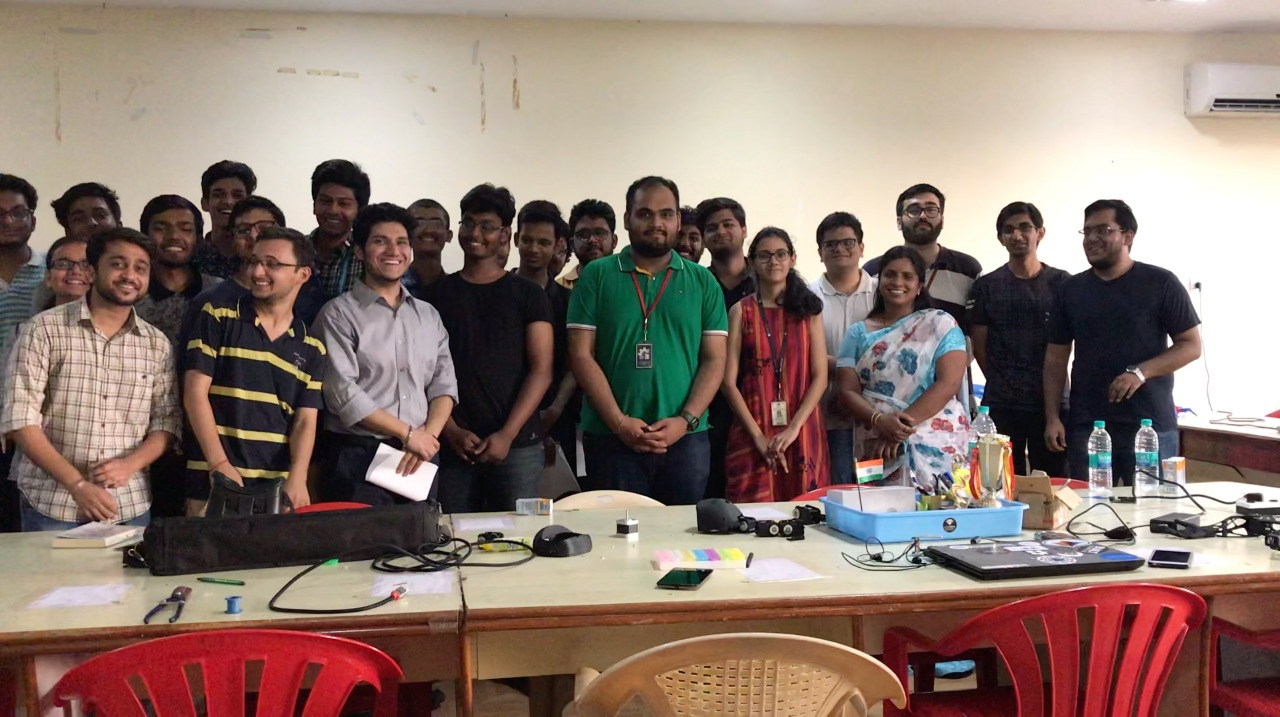
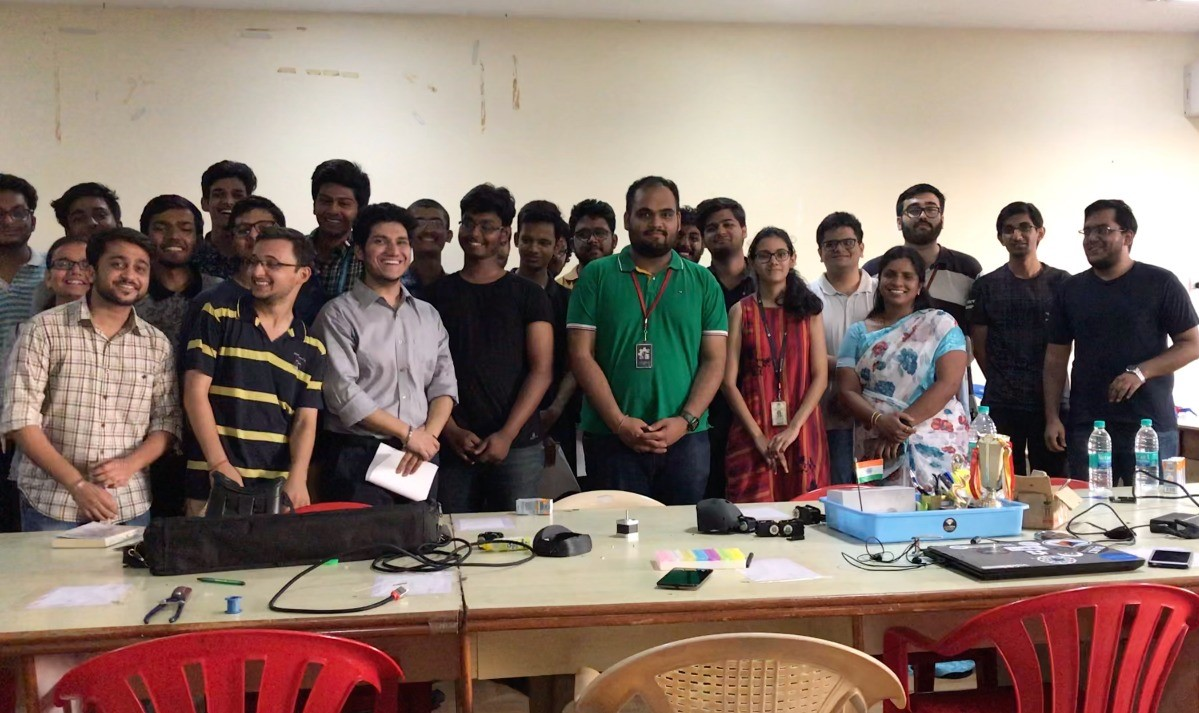
.

diff --git a/index.html b/index.html
@@ -65,7 +65,7 @@
     ================================================================================== -->
 
     <div class="bg"> 
-        <img id="img1" src="Assets/img/team1.jpg" alt="backgound" class="bg">
+        <img id="img1" src="Assets/img/team.jpg" alt="backgound" class="bg">
         <img id="img2" src="Assets/img/mobileview.jpg" alt="backgound">
         <div class="centered">
             <h1>SRMTH</h1>
@@ -231,7 +231,7 @@
         <hr>
         <div class="container">
             <div class="gmap_canvas">
-                <iframe width="350" height="350" id="gmap_canvas" src="https://maps.google.com/maps?q=srm%20basic%20engineering%20lab&t=&z=13&ie=UTF8&iwloc=&output=embed" frameborder="0" scrolling="no" marginheight="0" marginwidth="0"></iframe>
+                <iframe width="350" height="350" id="gmap_canvas" src="https://maps.google.com/maps?q=basic%20engineering%20lab%20srm&t=&z=17&ie=UTF8&iwloc=&output=embed" frameborder="0" scrolling="no" marginheight="0" marginwidth="0"></iframe>
                 <iframe width="350" height="350" id="gmap_canvas" src="https://www.youtube.com/embed/yNxIlA9s1yQ" frameborder="0" scrolling="no" marginheight="0" marginwidth="0"></iframe>
             </div>
         </div>
@@ -256,7 +256,8 @@
                 <div id="loc">
                     <i class="fas fa-phone"></i>
                     <h5>CALL US AT</h5>
-                    <p>Vivek: (+91) 9599398784</p>
+                    <p>Mehul Singh: (+91) 8769187251</p>
+                    <p>Vivek Mittal: (+91) 9599398784</p>
                 </div>
             </div>
         </div>
